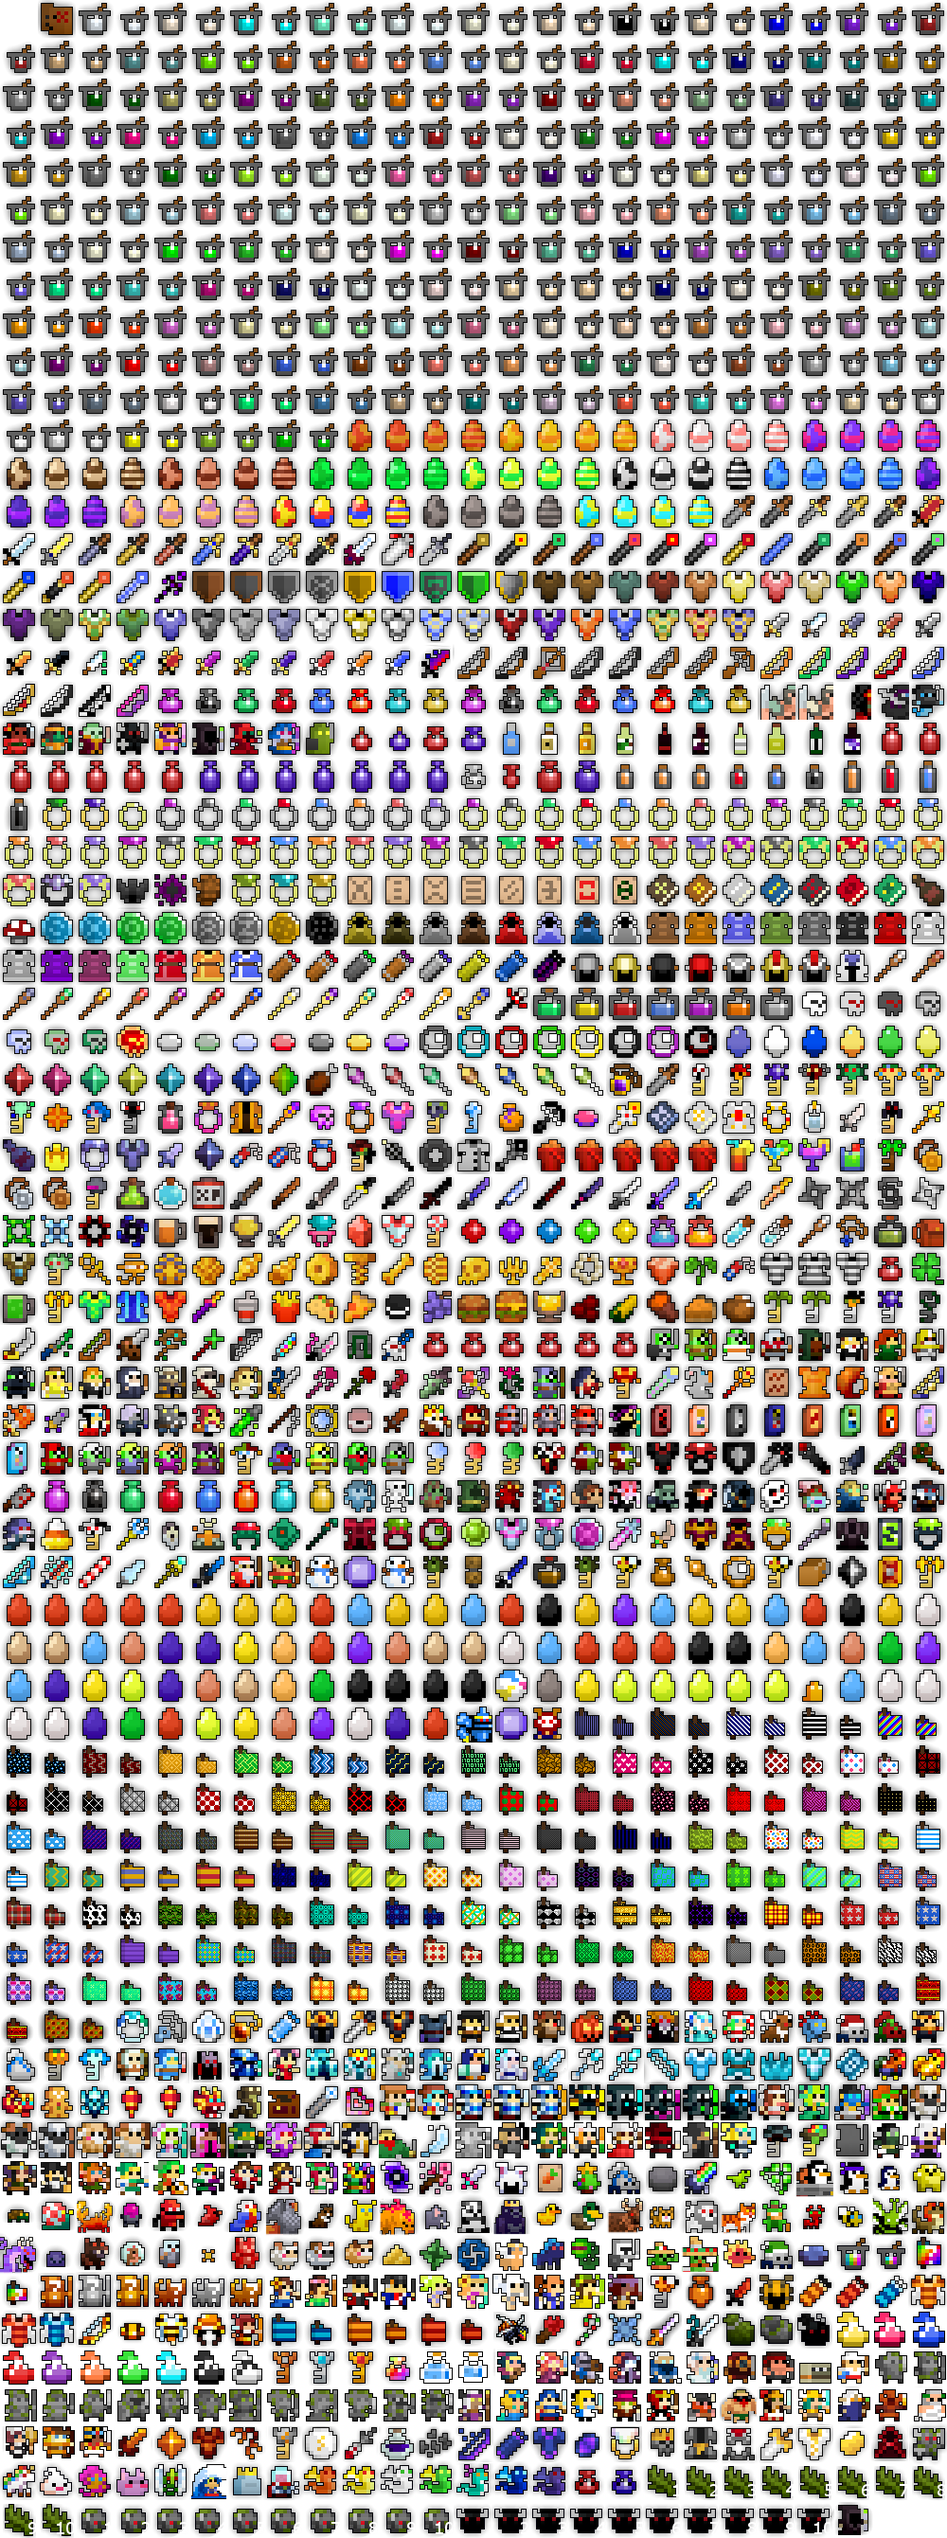
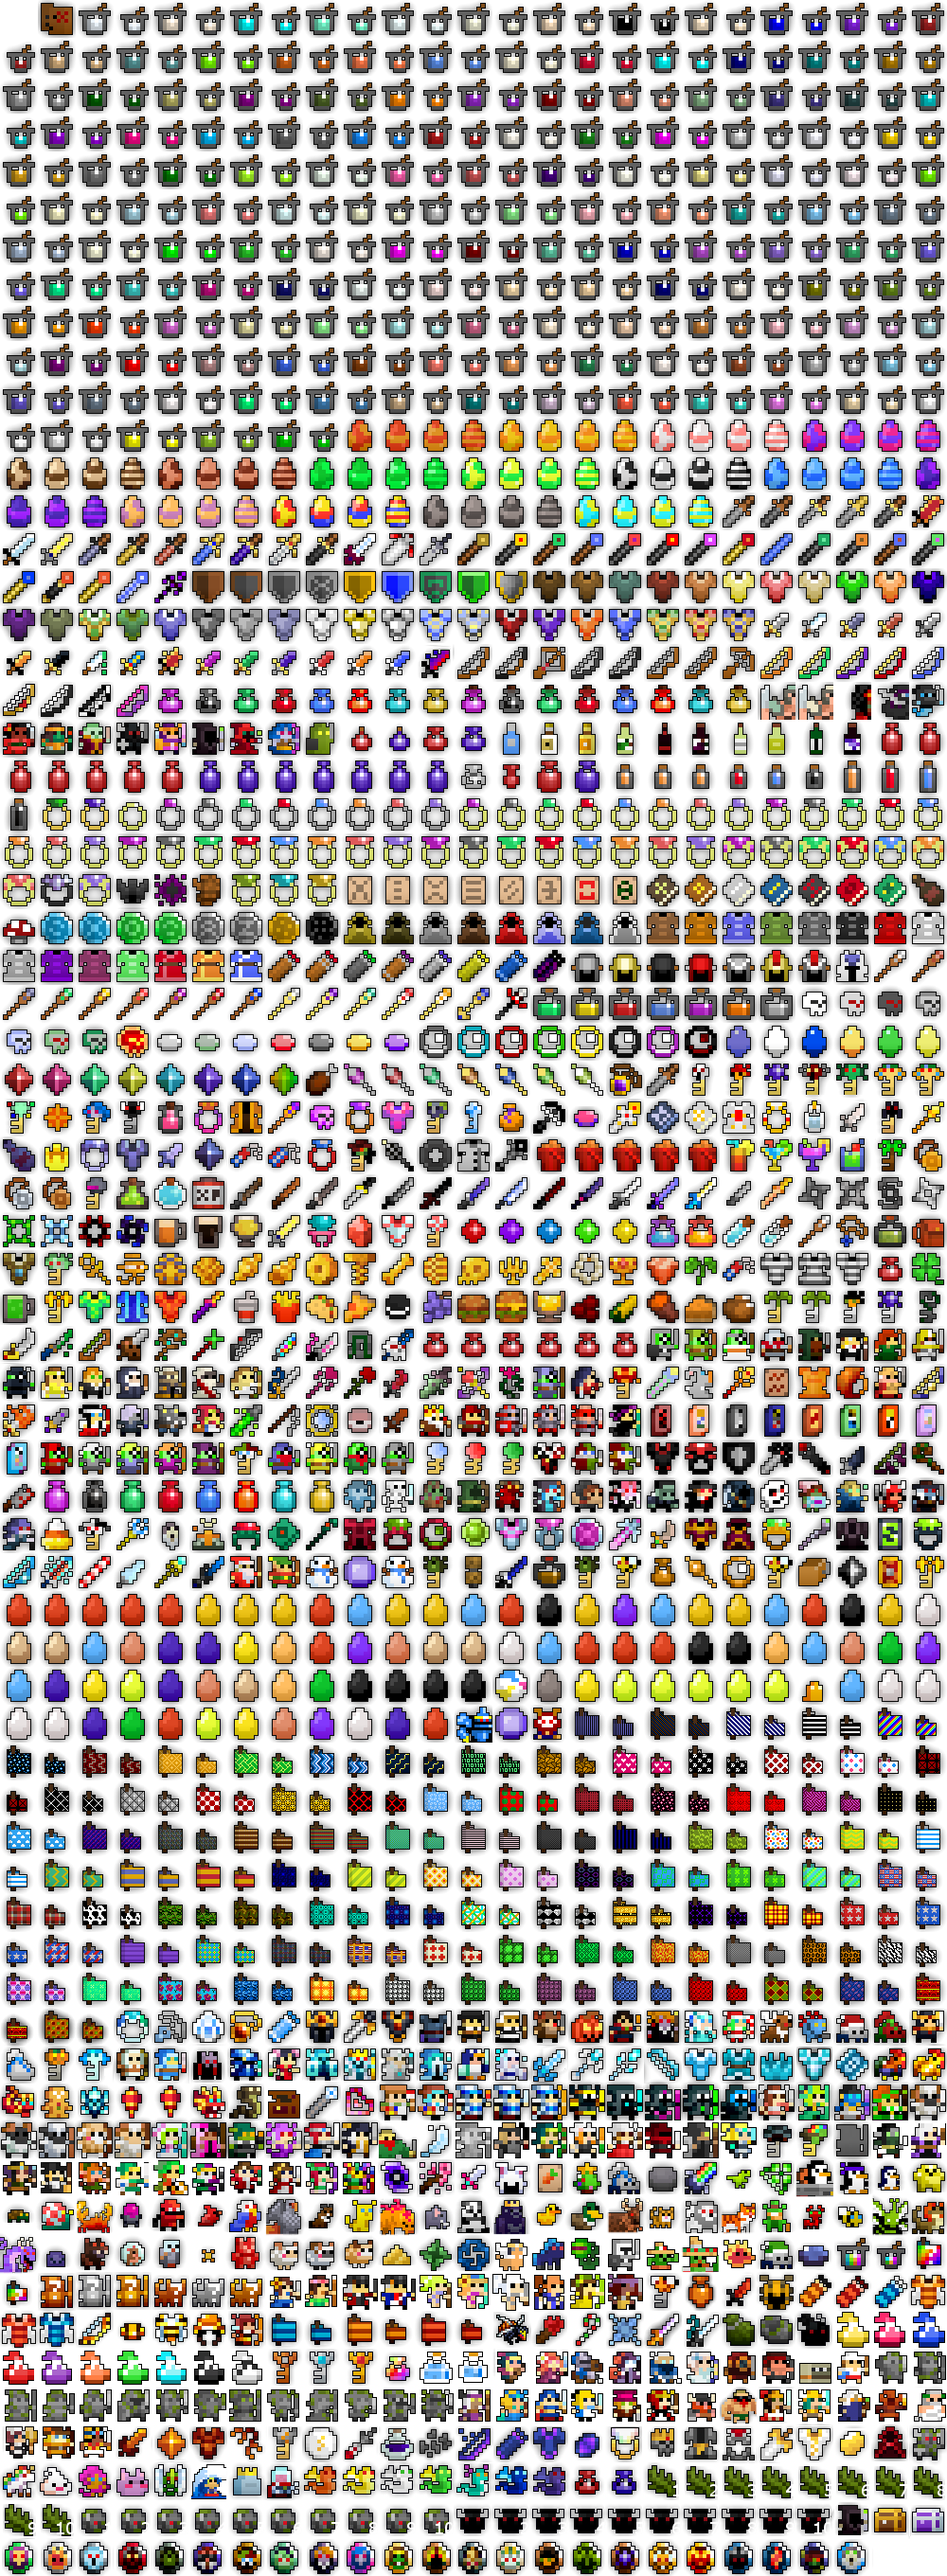
Add files via upload
added marks + quest chest

diff --git a/lib/constants.js b/lib/constants.js
@@ -1,4 +1,4 @@
-// type: ["Name of item", slot, tier, x, y, famebonus, feedpower],
+// type: ["Name of item", slot, tier, x, y, famebonus, feedpower],
 items = {
 '-1': ["empty slot", 0, -1, 0, 0, 0, 0],
 0x5e2d: ["Treasure Map", 10, -1, 40, 0, 0, 250],
@@ -1757,12 +1757,40 @@ items = {
 0x9bc: ["Oryx Token x9", 10, -1, 800, 2640, 0, 0],
 0x9bd: ["Oryx Token x10", 10, -1, 840, 2640, 0, 0],
 0x7494: ["Mini Archmage", 10, -1, 880, 2640, 0, 0],
+0xd8c: ["Quest Chest", 10, -1, 920, 2640, 0, 0],
+0xd8e: ["Epic Quest Chest", 10, -1, 960, 2640, 0, 0],
+0x1e3b: ["Mark of Stheno", 10, -1, 0, 2680, 0, 0],
+0x1e2f: ["Mark of Limon", 10, -1, 40, 2680, 0, 0],
+0x1e26: ["Mark of Septavius", 10, -1, 80, 2680, 0, 0],
+0x1e27: ["Mark of Malphas", 10, -1, 120, 2680, 0, 0],
+0x1e28: ["Mark of Gulpord", 10, -1, 160, 2680, 0, 0],
+0x1e29: ["Mark of Dr. Terrible", 10, -1, 200, 2680, 0, 0],
+0x1e2a: ["Mark of the Puppet Master", 10, -1, 240, 2680, 0, 0],
+0x1e2b: ["Mark of Skuld", 10, -1, 280, 2680, 0, 0],
+0x1e2c: ["Mark of Ruthven", 10, -1, 320, 2680, 0, 0],
+0x1e30: ["Mark of Thessal", 10, -1, 360, 2680, 0, 0],
+0x1e31: ["Mark of Geb", 10, -1, 400, 2680, 0, 0],
+0x1e35: ["Mark of the Forgotten King", 10, -1, 440, 2680, 0, 0],
+0x1e2d: ["Mark of Daichi", 10, -1, 480, 2680, 0, 0],
+0x1e34: ["Mark of the Wyvern", 10, -1, 520, 2680, 0, 0],
+0x1e37: ["Mark of Bilgewater", 10, -1, 560, 2680, 0, 0],
+0x1e38: ["Mark of the Megamoth", 10, -1, 600, 2680, 0, 0],
+0x1e3a: ["Mark of the Son of Arachna", 10, -1, 640, 2680, 0, 0],
+0x1e39: ["Mark of the Killer Bee Queen", 10, -1, 680, 2680, 0, 0],
+0x1e36: ["Mark of Shaitan", 10, -1, 720, 2680, 0, 0],
+0x1e32: ["Mark of Oryx", 10, -1, 760, 2680, 0, 0],
+0x1e33: ["Mark of Janus", 10, -1, 800, 2680, 0, 0],
+0x1e3c: ["Mark of Davy Jones", 10, -1, 840, 2680, 0, 0],
+0x1e2e: ["Mark of Esben", 10, -1, 880, 2680, 0, 0],
 
 //0xcd5: ["Ivory Wyvern Key", 10, -1, xx, xx, 0, 100],
 //0x0: "(art sprite)"(unknown)
 
 }
 // type: ["Name of item", slot, tier, x, y, famebonus, feedpower],
+// type: [id, slot, tier, x, y, famebonus, feedpower]
+// The x-coordinate of the first object in each row is 0 and the last object is +960. Each object increases the x-coordinate by +40.
+// The y-coordinate of the first object in each column is 0. Each object increases the y-coordinate by +40
 
 // type: [id, starts, averages, maxes, slots]
 classes = {
